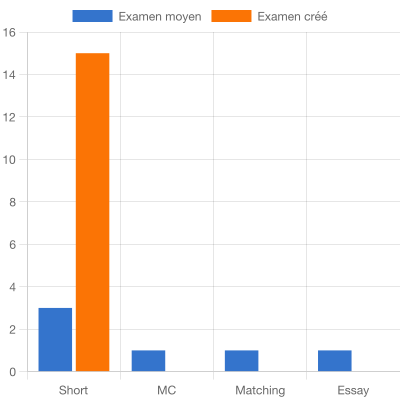
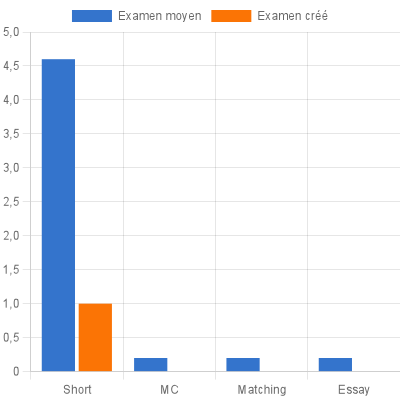
histo fini

diff --git a/lib/creerExamen.js b/lib/creerExamen.js
@@ -97,10 +97,11 @@ function creerExam(professeur){
     //Vcard de l'enseignant 
     const pathToContacts = path.join(__dirname, '../data/Contact');
     const fichiers = fs.readdirSync(pathToContacts);
+    let prof = '';
     fichiers.forEach(file => {
         const filepath = path.join(pathToContacts, file);
         if (file.includes(professeur)) {
-            const prof = (filepath);
+             prof = filepath;
         }
     });
 
@@ -118,11 +119,13 @@ function creerExam(professeur){
     const filename = `${matiere}_${nom_exam}_examen.json`;
     const filePath = path.join(folderPath, filename);
 
+
+
     // Écrire dans le fichier
     fs.writeFileSync(filePath, JSON.stringify(examData, null, 2), 'utf8');
 
     console.log(`L'examen a été créé avec succès. Les données ont été enregistrées dans le fichier "${filename}".`);
-     
+    profilerExam(filePath);
 }
 
 
@@ -160,6 +163,9 @@ const profileMoyenExamBanque = (fileExamToExclude) => {
                 nbQuestionParType[q.type] += 1
             })
         }
+    })
+    Object.keys(nbQuestionParType).forEach(key => {
+        nbQuestionParType[key] =  nbQuestionParType[key]/(files.length-1);
     })
     return nbQuestionParType
 }
@@ -199,6 +205,8 @@ const dessinerHistogramme = (nbQuestionParTypeExamen, nbQuestionParTypeMoyen) =>
     })();
 }
 
-profilerExam('../data/Examen/U5_PITIE_QUE_CA_MARCHE_examen.json')
+
+//profilerExam('../data/Examen/U5_PITIE_QUE_CA_MARCHE_examen.json')
+creerExam();
 
 module.exports = {creerExam, profilerExam}
